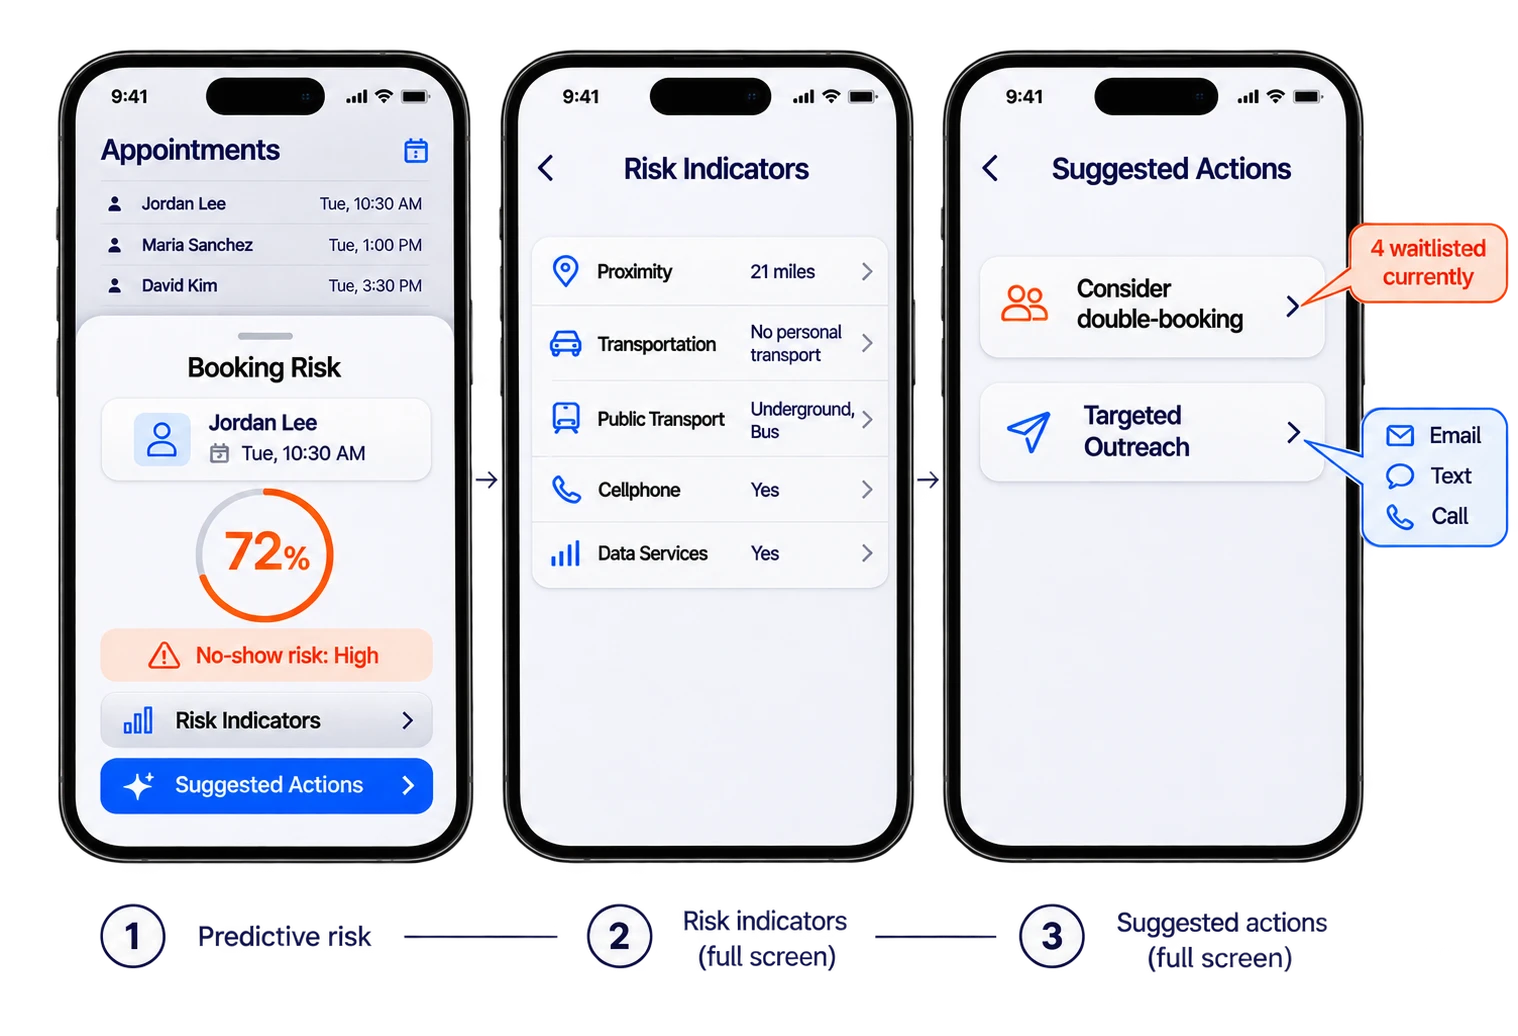
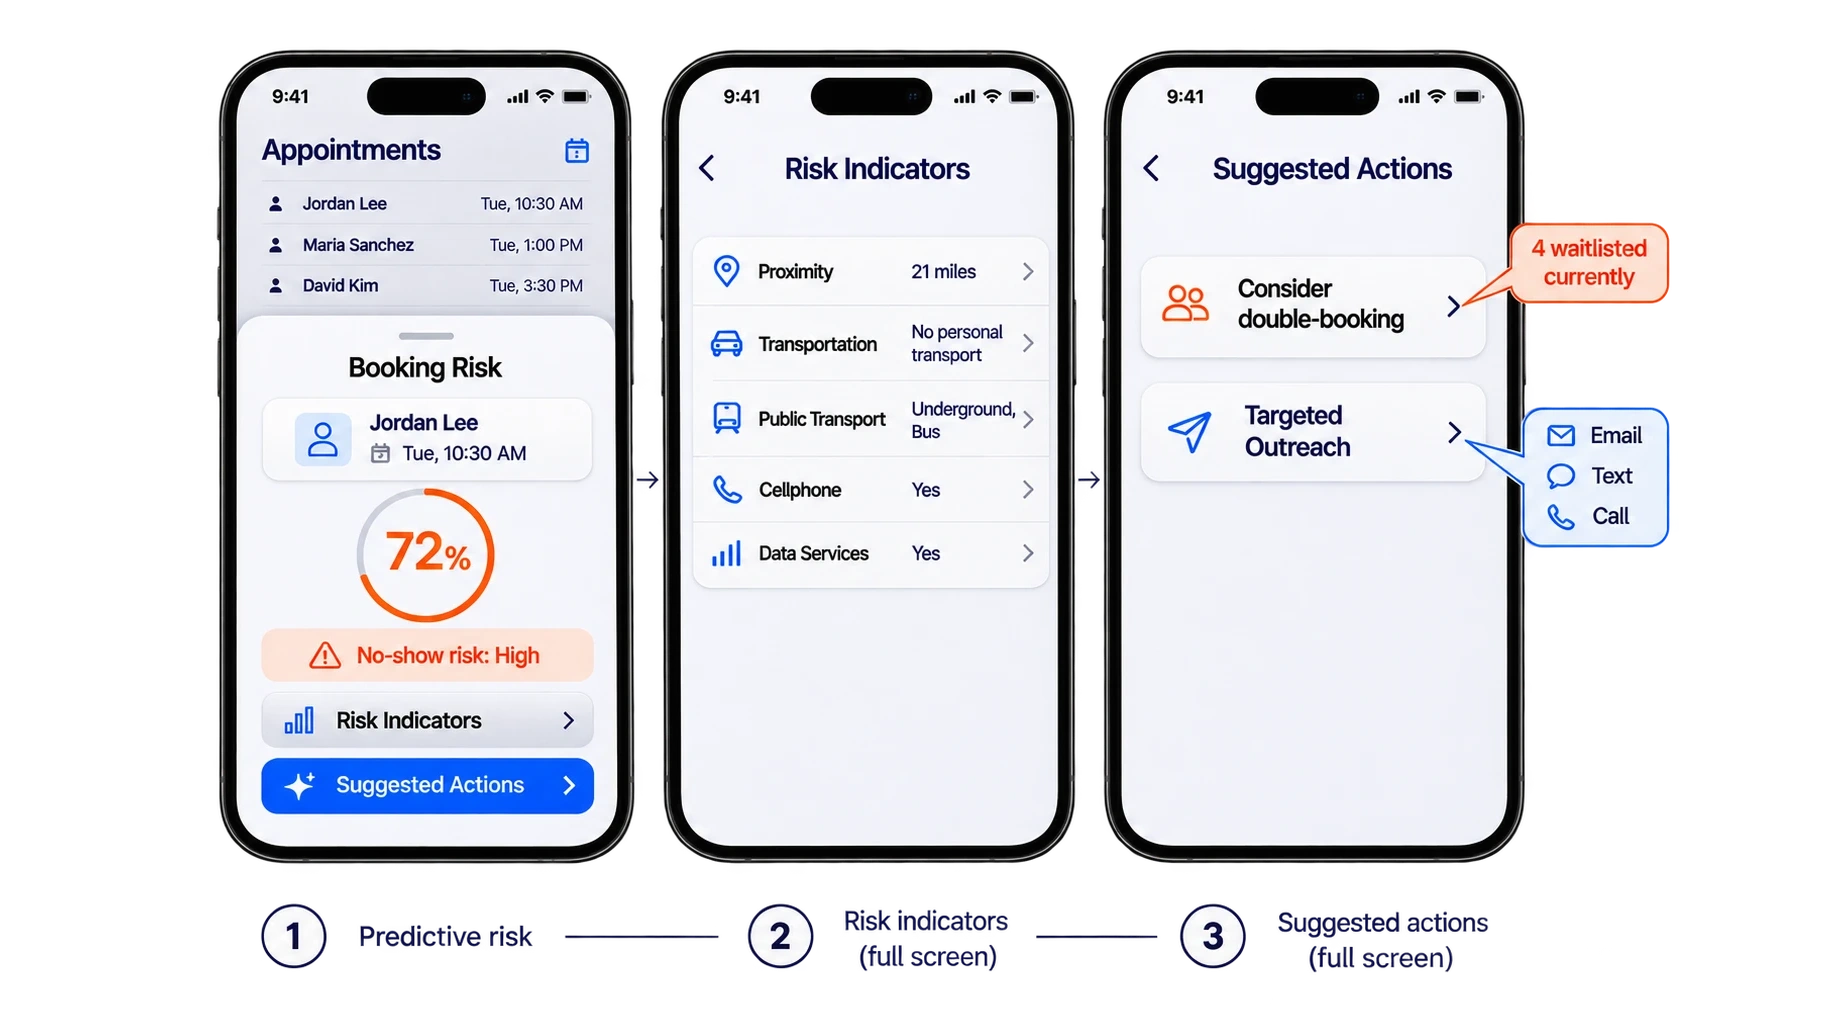
Match No Show image dimensions (16:9) and frame to other Working with AI posts
Claude-Session: https://claude.ai/code/session_01F9hf69Wcpkm5iXopxxEfMY

diff --git a/working-with-ai.html b/working-with-ai.html
@@ -716,7 +716,7 @@
                         <p><strong>Solution</strong></p>
                         <p>This solution includes 4 phases of development. One such phase introduces predictive analytics generating probability risk scores for patient no-shows based on historical attendance patterns. Other phases include a set of contextual variables and weights. For instance, social determinants of health. This intelligence surfaces during booking, helping practices make informed decisions to ensure higher probability of attendance, thus protecting revenue.</p>
                         <div style="border:1px solid #2B2320;border-radius:6px;overflow:hidden;padding:5%;margin:24px 0;">
-                            <img src="Images/NoShow.webp" alt="No Show prediction" style="width:100%;display:block;border-radius:6px;">
+                            <img src="Images/NoShow.webp?v=3" alt="No Show prediction" style="width:100%;display:block;border-radius:6px;">
                         </div>
                         <p>This project would need significant work with data science as it scales. The initial phase would be a simpler mathematical calculation. I used Balsamiq and Lovable to build a few quick prototypes to show stakeholders how this would work out on mobile.</p>
                         <p><strong>Impact</strong></p>
